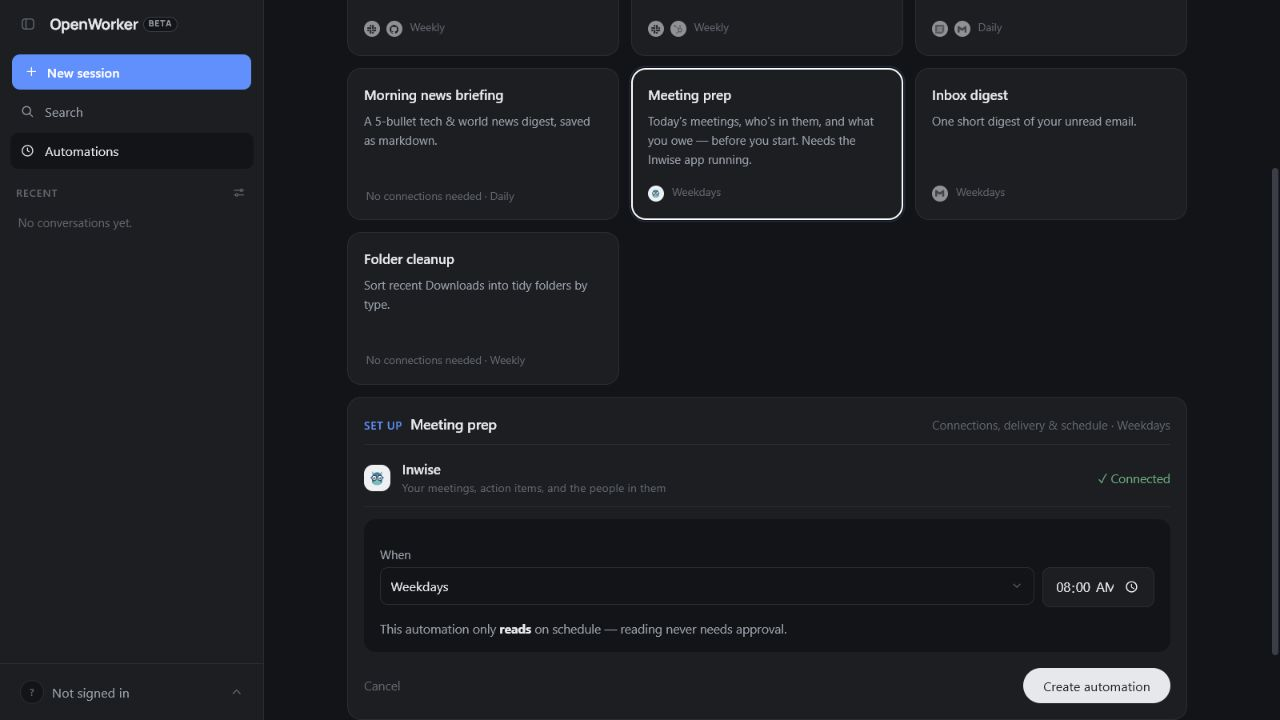
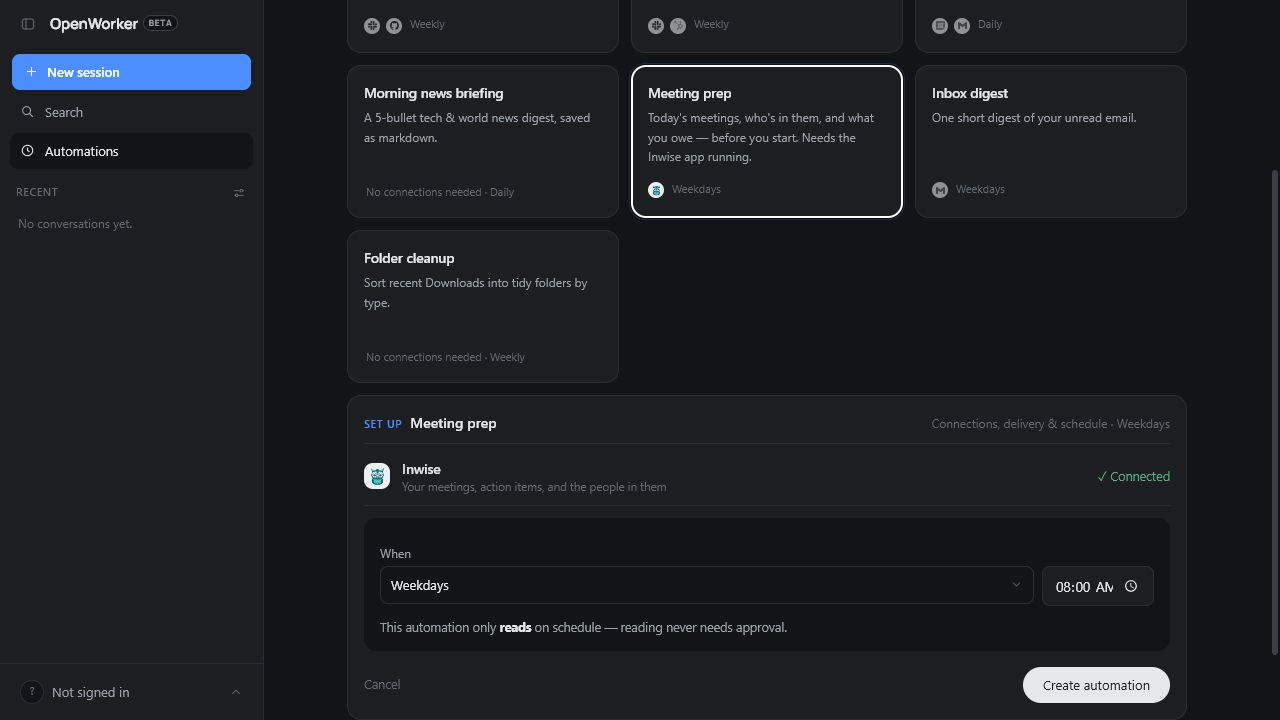
Use supplied Inwise owl artwork

diff --git a/surfaces/gui/src/connectors/registry.tsx b/surfaces/gui/src/connectors/registry.tsx
@@ -10,10 +10,11 @@
 // the same format. Brands with no published monochrome mark (Attio, Apollo.io, Hunter,
 // Amplitude, Descript, Clay, Close, Docusign — whose current post-rebrand mark no icon pack
 // ships) and the non-brand utilities (email, browser, MCP, fallback plug) keep simple custom
-// glyphs. Inwise is the one full-color mark: its owl is multi-color by design, so it carries
-// its own fills and ignores the tint (the badge background still uses `brand_color`).
+// glyphs. Inwise is the one full-color raster mark: its supplied owl artwork is multi-color and
+// ignores the tint (the badge background still uses `brand_color`).
 // (Filename is `.tsx` because the entries are JSX — the spec's `registry.ts` can't hold JSX.)
 
+import inwiseLogoUrl from "../assets/inwise-logo.png";
 import type { SimpleIcon } from "simple-icons";
 import {
   siAsana,
@@ -134,41 +135,11 @@ const MondayLogo = strokeLogo(
   </>,
 );
 
-// Inwise's mark is a bespectacled owl. Unlike every other entry here it carries its
-// own fills instead of `currentColor`: the brand mark is multi-color (teal body, mint
-// tufts and chest, navy glasses, amber beak) and reads as a different bird in one tone.
-// `brand_color` still drives the badge background, so the descriptor stays the source
-// of truth for everything the tint controls.
+// The supplied full-color Inwise owl is bundled as a transparent image so the connector uses
+// the actual brand artwork rather than a hand-drawn approximation. `brand_color` still drives
+// the badge background, so the descriptor remains the source of truth for the surrounding tint.
 const InwiseLogo: LogoComponent = () => (
-  <svg viewBox="0 0 64 64" width="100%" height="100%" aria-hidden="true">
-    {/* ear tufts — behind the head so they read as horns */}
-    <path d="M17 27C10 17 9 8 12 5c4 2 12 11 15 20z" fill="#61C1B6" />
-    <path d="M47 27c7-10 8-19 5-22-4 2-12 11-15 20z" fill="#61C1B6" />
-    {/* body + head silhouette */}
-    <ellipse cx="32" cy="45" rx="22" ry="17" fill="#2A7F93" />
-    <circle cx="32" cy="28" r="20" fill="#2A7F93" />
-    {/* mint chest */}
-    <path d="M20 44c2-4 6-6 12-6s10 2 12 6c3 4 4 8 4 11-4 5-10 7-16 7s-12-2-16-7c0-3 1-7 4-11z" fill="#61C1B6" />
-    {/* forehead marking between the lenses */}
-    <path d="M32 15c-2 6-2.5 11-2 16l2-3 2 3c.5-5 0-10-2-16z" fill="#61C1B6" />
-    {/* glasses: white lenses, navy rims, bridge and temples */}
-    <circle cx="20" cy="32" r="10.5" fill="#FFFFFF" stroke="#16357C" strokeWidth="3.5" />
-    <circle cx="44" cy="32" r="10.5" fill="#FFFFFF" stroke="#16357C" strokeWidth="3.5" />
-    <path
-      d="M30.5 31h3M9.5 31H5M54.5 31H59"
-      stroke="#16357C"
-      strokeWidth="3.5"
-      strokeLinecap="round"
-      fill="none"
-    />
-    {/* eyes */}
-    <circle cx="20" cy="33" r="5.5" fill="#2A7F93" />
-    <circle cx="44" cy="33" r="5.5" fill="#2A7F93" />
-    <circle cx="18" cy="30" r="2" fill="#FFFFFF" />
-    <circle cx="42" cy="30" r="2" fill="#FFFFFF" />
-    {/* beak — rounded at the brow, pointed at the tip */}
-    <path d="M32 44c-2-3-3.2-6.2-2.6-9.2 1-2.4 4.2-2.4 5.2 0C35.2 37.8 34 41 32 44z" fill="#F9B119" />
-  </svg>
+  <img className="inwise-logo" src={inwiseLogoUrl} alt="" aria-hidden="true" />
 );
 
 const AmplitudeLogo = strokeLogo(

diff --git a/surfaces/gui/src/connectors/ConnectorIcon.test.tsx b/surfaces/gui/src/connectors/ConnectorIcon.test.tsx
@@ -34,6 +34,17 @@ describe("ConnectorIcon", () => {
     expect(el.style.getPropertyValue("--brand")).toBe("#6b7280");
   });
 
+  it("renders the supplied full-color image for Inwise", () => {
+    const { container } = render(
+      <ConnectorIcon connector={{ logo: "inwise", brand_color: "#0F738C" }} />,
+    );
+    const el = container.querySelector('[data-logo="inwise"]') as HTMLElement;
+    const image = el.querySelector("img");
+    expect(image).not.toBeNull();
+    expect(image?.getAttribute("src")).toContain("inwise-logo");
+    expect(image?.getAttribute("aria-hidden")).toBe("true");
+  });
+
   it("flags near-black marks so dark-mode CSS can compensate", () => {
     // GitHub / Notion near-black → flagged; HubSpot orange → not.
     expect(isDarkMark("#1f2328")).toBe(true);

diff --git a/surfaces/gui/src/styles.css b/surfaces/gui/src/styles.css
@@ -1250,10 +1250,15 @@ button.btn.ghost:hover { color: var(--ink); }
   line-height: 0;
   color: var(--brand, #6b7280);
 }
-.connector-icon > svg {
+.connector-icon > svg,
+.connector-icon > img {
   display: block;
   width: 100%;
   height: 100%;
+  object-fit: contain;
+}
+.connector-icon > img.inwise-logo {
+  transform: scale(1.28);
 }
 .connector-badge {
   display: inline-grid;
